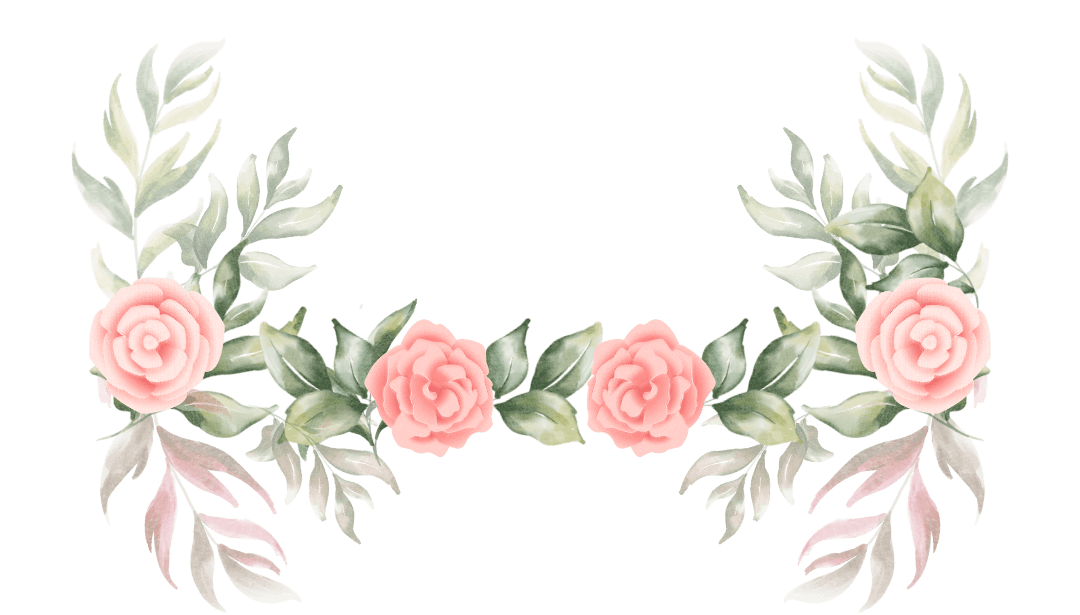
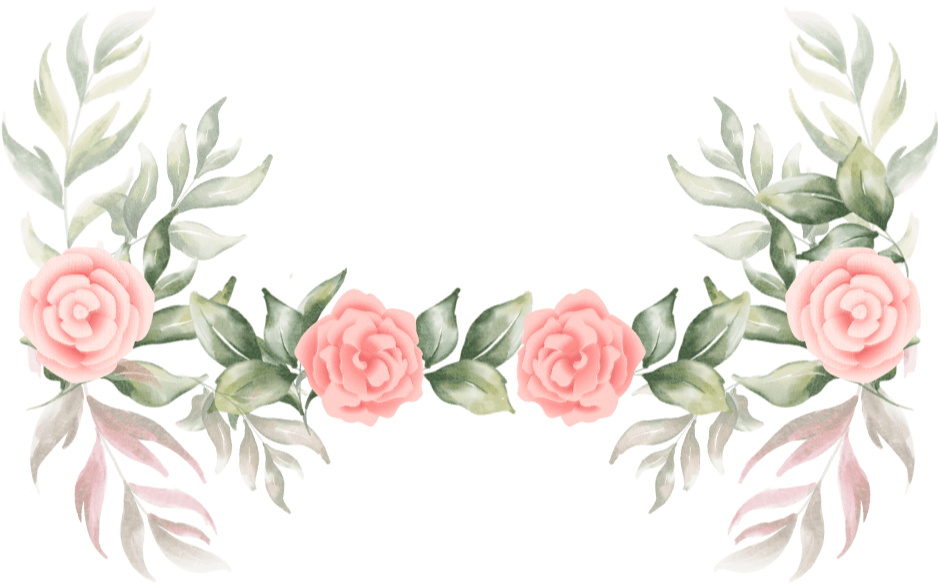
responsive

diff --git a/index.html b/index.html
@@ -56,16 +56,14 @@
         </a>
       </div>
 
-
-
       <div class="invit" id="invit" data-aos="fade-up" data-aos-duration="2500">
         <h3 class="invit__header">HURMATLI QADRDONIM!</h3>
 
         <p class="invit__body">SIZNI BIZ UCHUN MUHIM BO’LGAN
           QUVONCHLI KUN - NIKOH KECHAMIZNI
           SIZ BILAN BAHAM KO’RISHGA VA OILAVIY
-          HAYOTGA ILK QADAMIMIZNI GUVOHI
-          BO'LISHGA SIZNI TAKLIF ETAMIZ!</p>
+          HAYOTGA ILK QADAMIMIZNING GUVOHI
+          BO'LISHGA TAKLIF ETAMIZ!</p>
       </div>
 
       <div class="photo" data-aos="fade-up" data-aos-duration="2500">
@@ -175,7 +173,7 @@
 
         <hr class="program__line">
 
-        <p class="program__footer-text" data-aos="fade-up" data-aos-duration="2500">AZIZ MEHMON,
+        <p class="program__footer-text" data-aos="fade-up" data-aos-duration="2500">AZIZ MEHMON, <br>
           O’ZINGIZ BILAN ZAVQ VA QUVONCH OLIB KELISHINGIZNI SO’RAYMIZ!</p>
 
         <hr class="program__line">
@@ -200,9 +198,9 @@
         </ul>
 
         <div class="dress__wrapper" data-aos="fade-up" data-aos-duration="2500">
-          <p class="dress__men">ERKAKLAR: KLASSIK KOSTUMLAR</p>
+          <p class="dress__men">ERKAKLAR: KLASSIK KOSTYUM</p>
 
-          <p class="dress__men">QIZLAR: KECHKI KO’YLAKLAR</p>
+          <p class="dress__men">AYOLLAR: KECHKI KO’YLAK</p>
         </div>
 
         <!-- <hr class="dress__line">
@@ -317,9 +315,9 @@
         <p class="yakun__name" data-aos="fade-up" data-aos-duration="2500">le_invitations</p>
 
         <div class="yakun__list" data-aos="fade-up" data-aos-duration="2500">
-          <a href="#" class="yakun__social-link"><img src="./img/facebook.svg" alt=""></a>
+          <a href="tel:+998998515582" class="yakun__social-link"><img src="./img/call.svg" alt=""></a>
 
-          <a href="https://t.me/le_invitations" class="yakun__social-link"><img src="./img/twitter.svg" alt=""></a>
+          <a href="https://t.me/le_invitations" class="yakun__social-link"><img src="./img/telegram.svg" alt=""></a>
 
           <a href="https://www.instagram.com/le_invitations" class="yakun__social-link"><img src="./img/instagram.svg"
               alt=""></a>

diff --git a/css/styles.css b/css/styles.css
@@ -1751,7 +1751,7 @@ img {
 
   .adres__subheader-first {
     font-size: 15px;
-    max-width: 150px;
+    max-width: 250px;
     line-height: 15px;
     margin-bottom: 20px;
   }
@@ -1869,7 +1869,7 @@ img {
   }
 
   .bg-flower-1 {
-    width: 212px;
+    width: 300px;
   }
 
 
@@ -1879,7 +1879,7 @@ img {
   }
 
   .dress__header {
-    font-size: 29px;
+    font-size: 35px;
     line-height: 15px;
     margin-bottom: 25px;
   }
@@ -1996,6 +1996,7 @@ img {
     font-size: 13px;
     margin-top: 20px;
     margin-bottom: 20px;
+    max-width: 250px;
   }
 
   .dress__wrapper {
@@ -2057,7 +2058,7 @@ img {
   }
 
   .form__yesno-label {
-    font-size: 13px;
+    font-size: 16px;
     color: #5F5F5F80;
   }
 
@@ -2080,7 +2081,7 @@ img {
 
   .yakun__body {
     font-size: 13px;
-    max-width: 120px;
+    max-width: 170px;
     margin-bottom: 30px;
   }
 
@@ -2101,9 +2102,9 @@ img {
   }
 
   .yakun::after {
-    width: 280px;
-    top: calc(0% + 250px);
-    height: 140px;
+    width: 300px;
+    top: calc(0% + 215px);
+    height: 170px;
   }
 
   .yakun__name {
